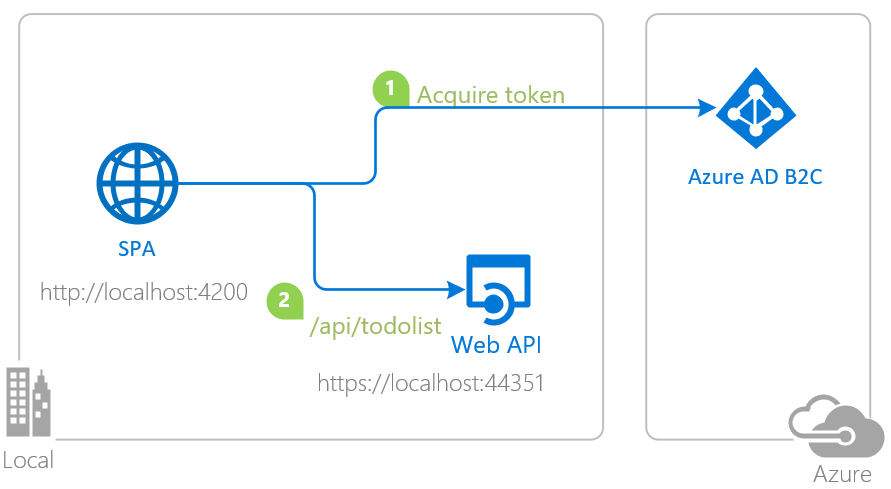
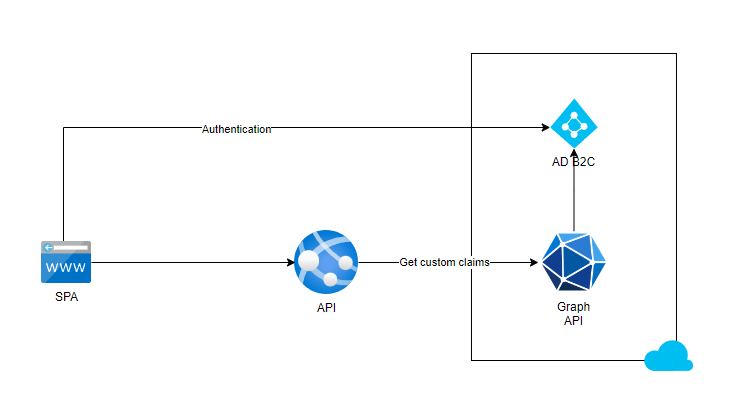
Update Application README file

diff --git a/ReadmeFiles/README.md b/ReadmeFiles/README.md
@@ -1,7 +1,7 @@
 ---
 page_type: sample
 name: Angular single-page application that authenticates users with Azure AD B2C and calls a protected .NET Core web API
-description: An Angular single-page application that authenticates users with Azure AD B2C and calls a protected .NET Core web API
+description: An Angular single-page application that authenticates users with Azure AD B2C and calls a protected .NET Core web API and Graph API
 languages:
  - javascript
  - typescript
@@ -45,8 +45,8 @@ This sample demonstrates an Angular single-page application (SPA) calling a ASP.
 1. The client Angular SPA uses [MSAL Angular](https://github.com/AzureAD/microsoft-authentication-library-for-js/tree/dev/lib/msal-angular) to sign-in a user and obtain a JWT [Access Token](https://aka.ms/access-tokens) from **Azure AD B2C**.
 1. The access token is used as a *bearer* token to authorize the user to call the .NET Core web API protected by **Azure AD B2C**.
 1. The service uses the [Microsoft.Identity.Web](https://aka.ms/microsoft-identity-web) to protect the Web api, check permissions and validate tokens.
-
-![Scenario Image](./ReadmeFiles/topology.png)
+1. The API calls Graph API to retrieve custom claims about the users
+![Scenario Image](./topology.png)
 
 ## Contents
 
@@ -57,6 +57,7 @@ This sample demonstrates an Angular single-page application (SPA) calling a ASP.
 | `API/TodoListAPI/appsettings.json`  | Authentication parameters for API project reside here.     |
 | `API/TodoListAPI/Startup.cs`        | Microsoft.Identity.Web is initialized here.                |
 | `API/TodoListAPI/Controllers/TodoListController.cs` | Contains logic for controlling access to data. |
+| `API/TodoListAPI/Controllers/UsersControllers.cs` | Contains logic for retrieving a Graph API token and calling it to obtain custom attributes of Azure B2C users |
 
 ## Prerequisites
 
@@ -117,6 +118,10 @@ As a first step you'll need to:
 #### Create User Flows and Custom Policies
 
 Please refer to: [Tutorial: Create user flows in Azure Active Directory B2C](https://docs.microsoft.com/azure/active-directory-b2c/tutorial-create-user-flows)
+
+Upload custom policy `CustomPolicies/policies/CustomSignUpOrSignin.xml` for the SUSI flow.
+
+Retrieve `b2c-extensions-app` applicationId and update values under `CustomAttributes`section on `appsettings.json` file
 
 #### Add External Identity Providers
 
@@ -225,6 +230,7 @@ Then, open a separate command line and run:
 1. Open your browser and navigate to `http://localhost:4200`.
 2. Sign-in using the button on the top-right corner.
 3. Select the **TodoList** button on the navigation bar to access your todo list.
+4. Select the **UserAnswers** button on the navigation bar to check users custom attributes
 
 > :information_source: Did the sample not work for you as expected? Then please reach out to us using the [GitHub Issues](../../../../issues) page.
 
